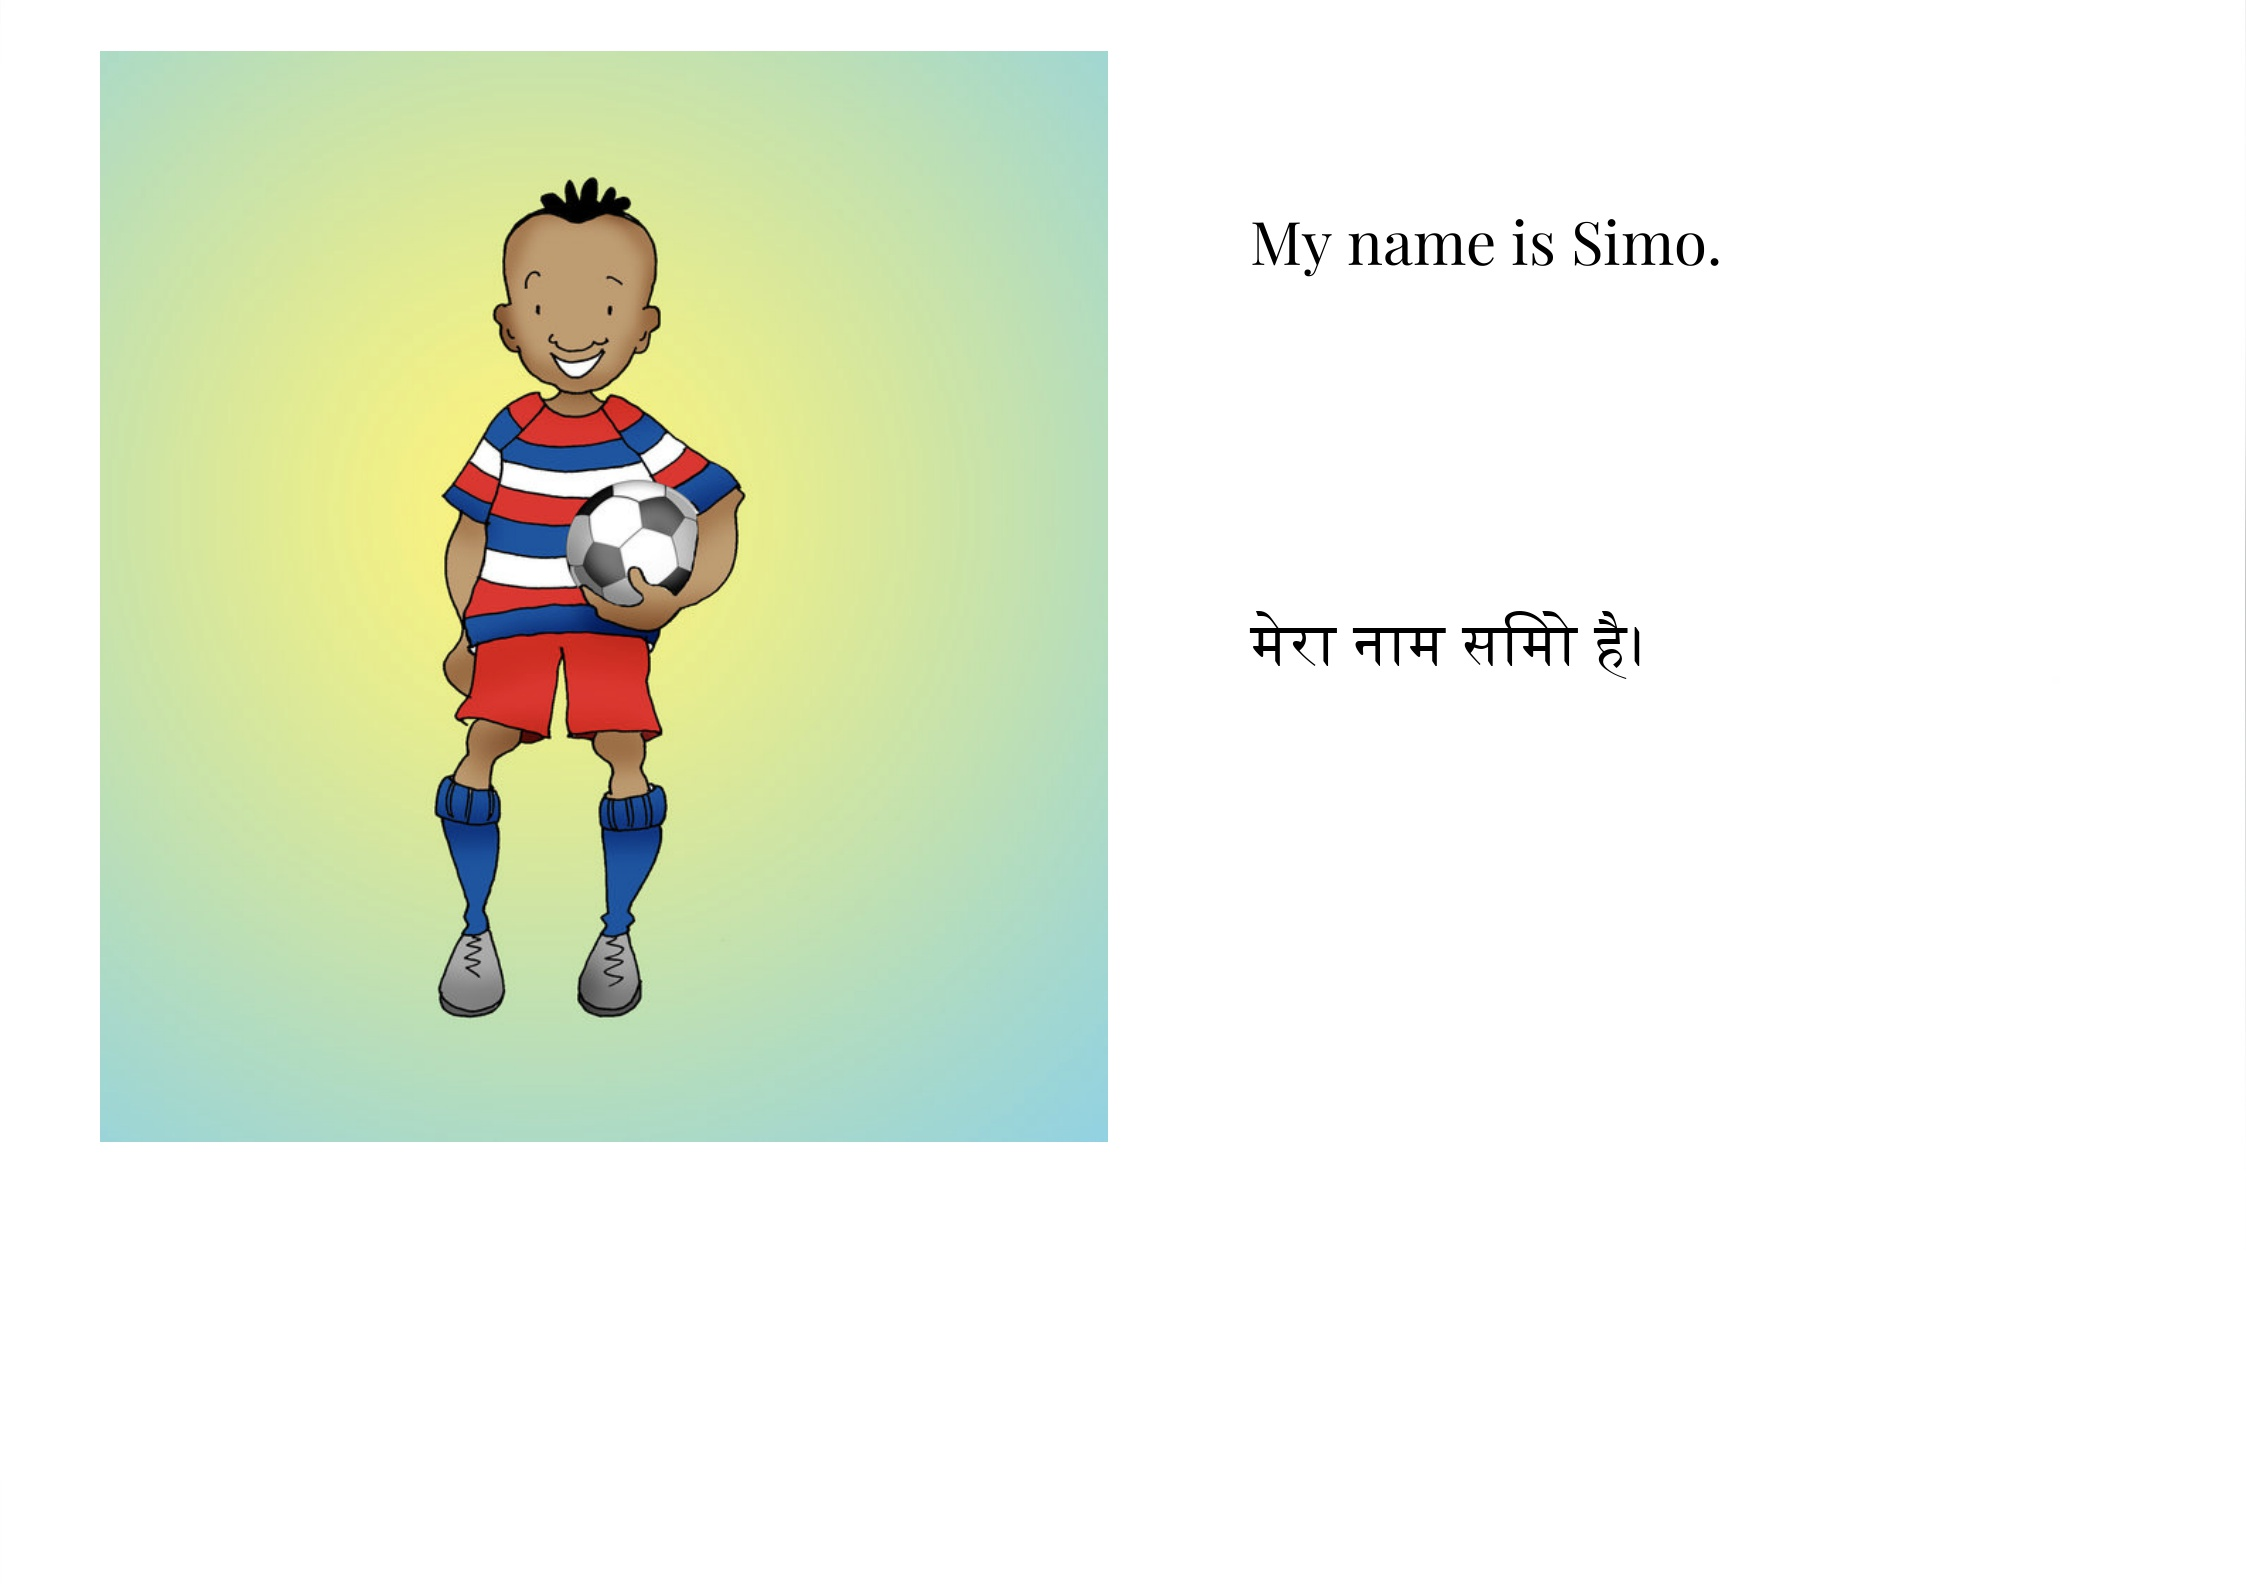
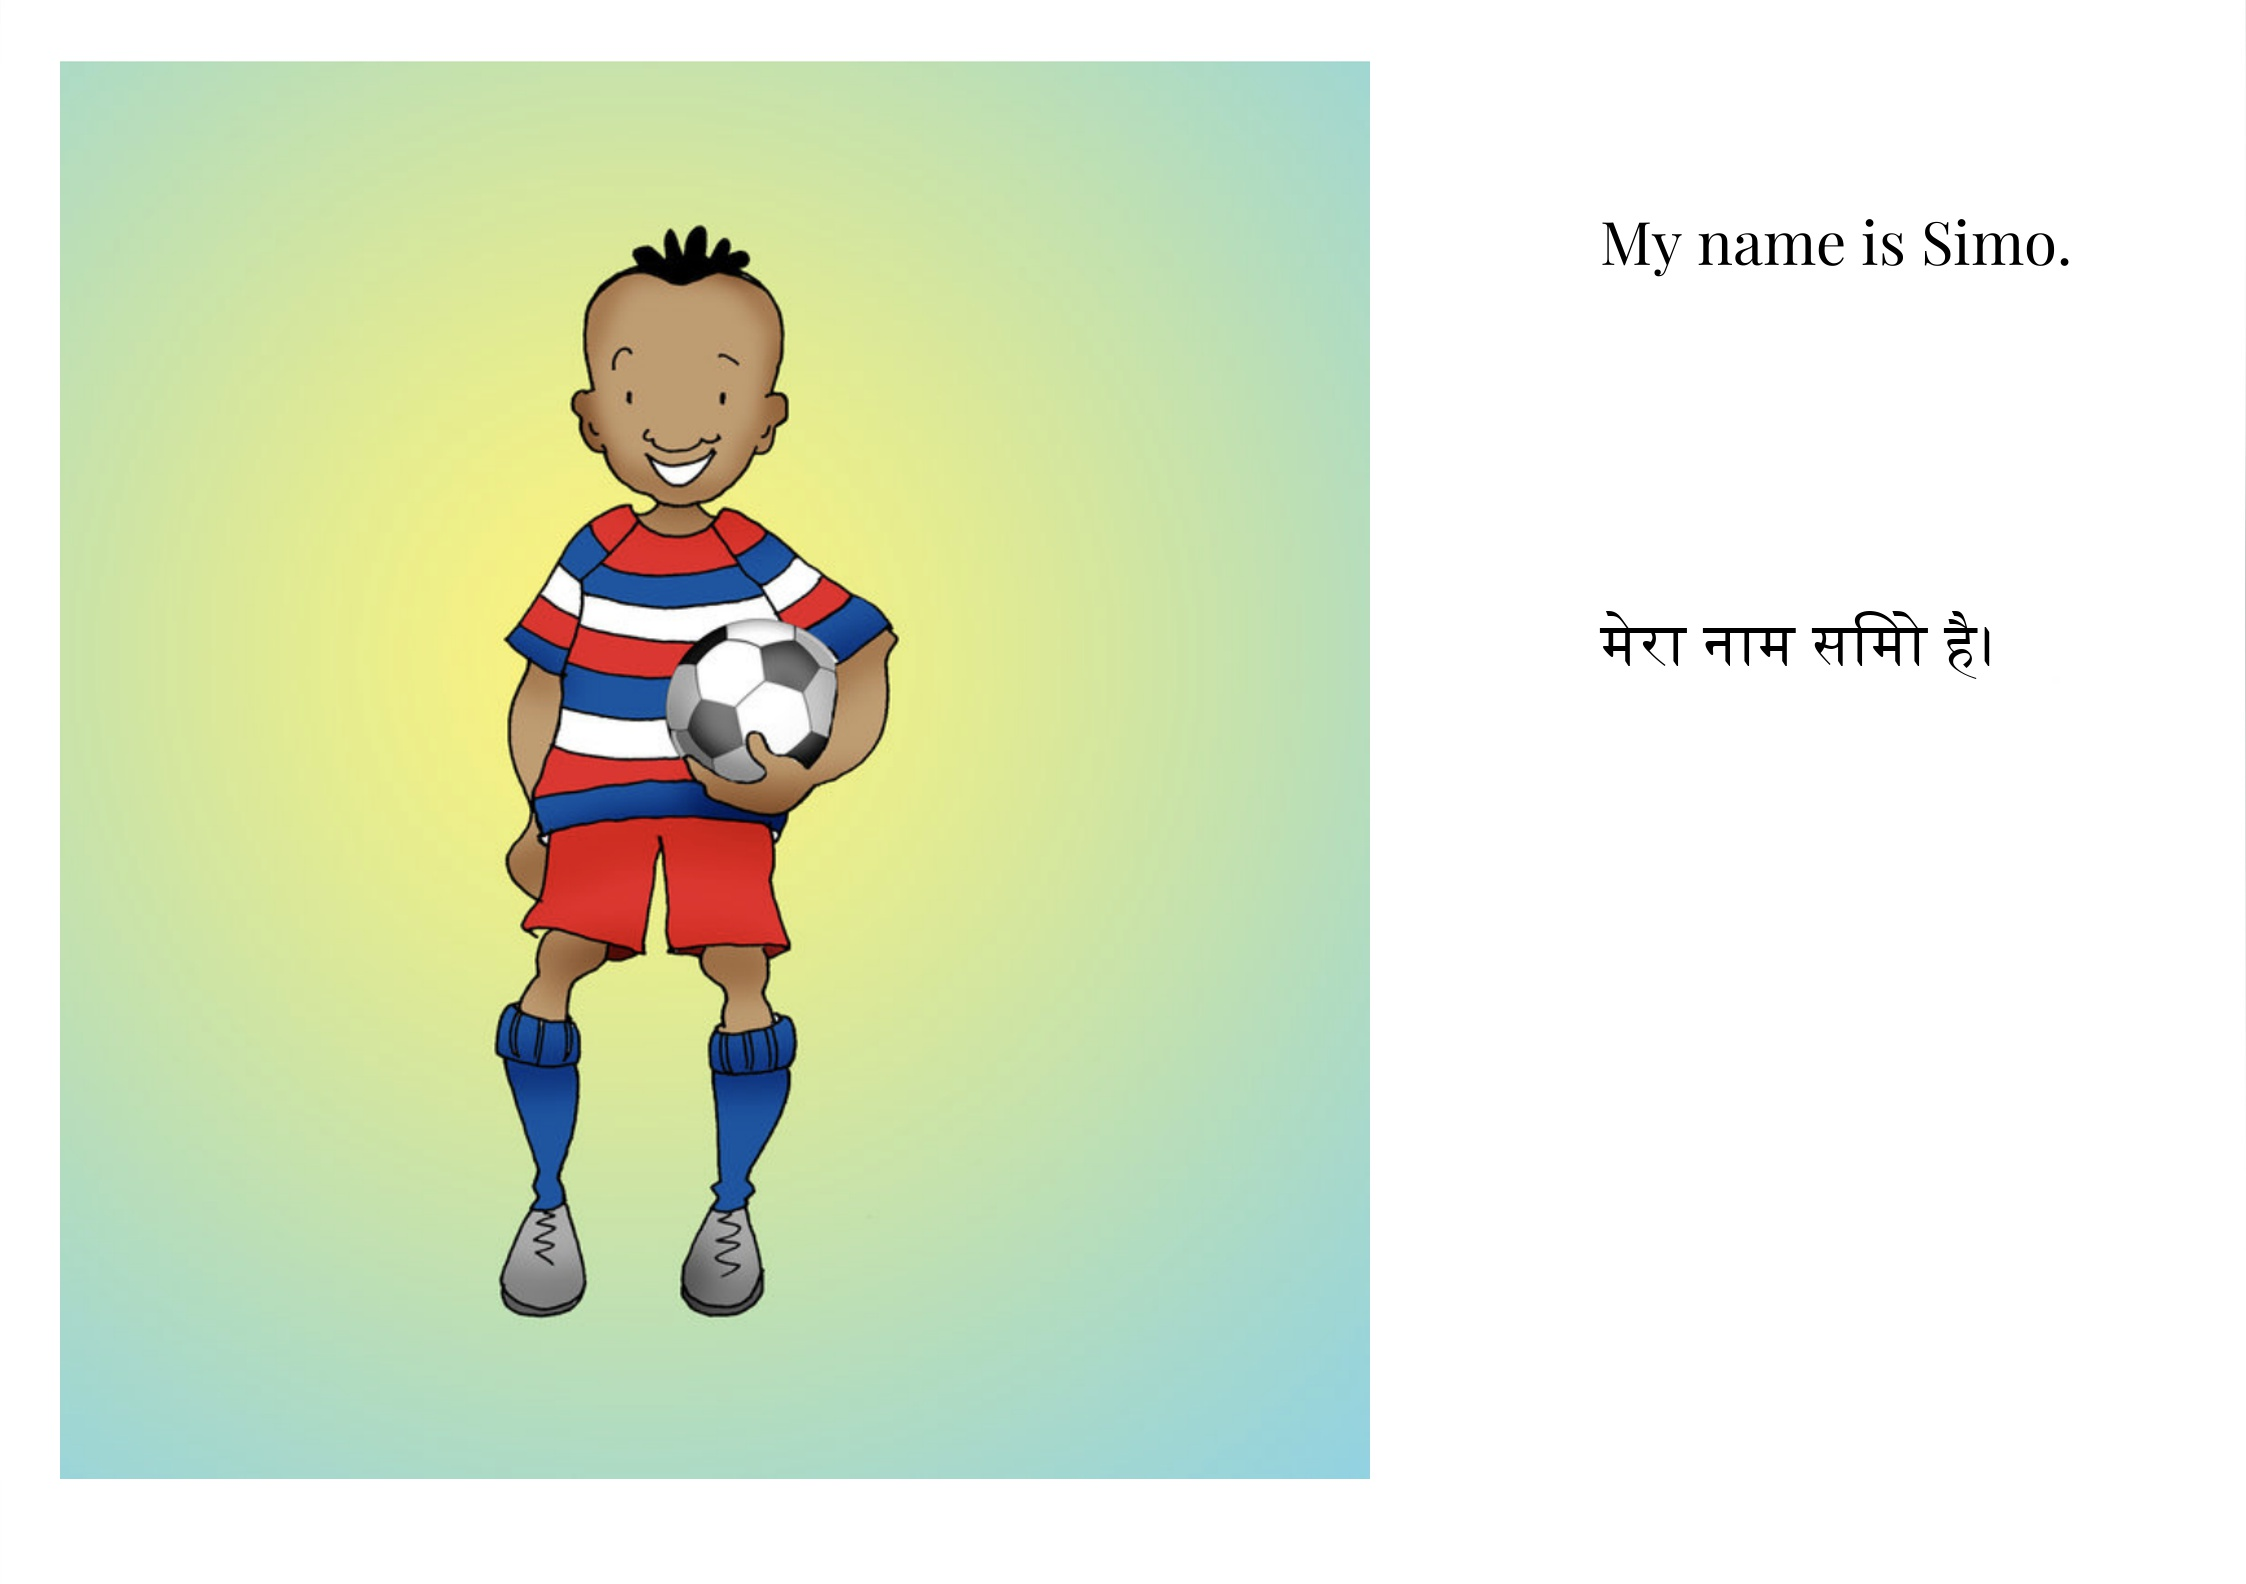
semiworking cropped image thing

diff --git a/ImageDetection.py b/ImageDetection.py
@@ -1,0 +1,60 @@
+import cv2
+import numpy as np
+def preproces_image(
+    image,
+    *,
+    kernel_size=15,
+    crop_side=50,
+    blocksize=35,
+    constant=15,
+    max_value=255,
+):
+    gray = cv2.cvtColor(image, cv2.COLOR_BGR2GRAY)
+    bit = cv2.bitwise_not(gray)
+    image_adapted = cv2.adaptiveThreshold(
+        src=bit,
+        maxValue=max_value,
+        adaptiveMethod=cv2.ADAPTIVE_THRESH_MEAN_C,
+        thresholdType=cv2.THRESH_BINARY,
+        blockSize=blocksize,
+        C=constant,
+    )
+    kernel = np.ones((kernel_size, kernel_size), np.uint8)
+    erosion = cv2.erode(image_adapted, kernel, iterations=2)
+    return erosion[crop_side:-crop_side, crop_side:-crop_side]
+
+def find_edges(image_preprocessed, *, bw_threshold=150, limits=(0.2, 0.15)):
+    mask = image_preprocessed < bw_threshold
+    edges = []
+    for axis in (1, 0):
+        count = mask.sum(axis=axis)
+        limit = limits[axis] * image_preprocessed.shape[axis]
+        index_ = np.where(count >= limit)
+        _min, _max = index_[0][0], index_[0][-1]
+        edges.append((_min, _max))
+    return edges
+
+
+def adapt_edges(edges, *, height, width):
+    (x_min, x_max), (y_min, y_max) = edges
+    x_min2 = x_min
+    x_max2 = x_max + min(250, (height - x_max) * 10 // 11)
+    # could do with less magic numbers
+    y_min2 = max(0, y_min)
+    y_max2 = y_max + min(250, (width - y_max) * 10 // 11)
+    return (x_min2, x_max2), (y_min2, y_max2)
+
+if __name__ == "__main__":
+
+    filename_in = "./Images/pageexample.png"
+    filename_out = "newexample.png"
+
+    image = cv2.imread(str(filename_in))
+    height, width = image.shape[0:2]
+    image_preprocessed = preproces_image(image)
+    edges = find_edges(image_preprocessed)
+    (x_min, x_max), (y_min, y_max) = adapt_edges(
+        edges, height=height, width=width
+    )
+    image_cropped = image[x_min:x_max, y_min:y_max]
+    cv2.imwrite(str(filename_out), image_cropped)

diff --git a/Translating.py b/Translating.py
@@ -8,7 +8,7 @@ booktext =  {
     'page1': 'My name is Simo.',
     'page2': 'I have four friends.'
 }
-booktext = ["My name is Simo.", "I have four friends."]
+# booktext = ["My name is Simo.", "I have four friends."]
 translatedbooktext = [""]
 
 url = "https://platform.neuralspace.ai/api/translation/v1/translate"
@@ -28,23 +28,9 @@ data = """
 """
 
  
-resp = requests.post(url, headers=headers, data=data)
+# resp = requests.post(url, headers=headers, data=data)
 
-response_dict = json.loads(resp.text)
-translatedbooktext[0] = response_dict["data"]["translated_text"]
-print(translatedbooktext)
-print(response_dict["data"]["translated_text"])
-
-
-path = "./Images/image1.png"
-title_font = ImageFont.truetype('PlayfairDisplay-Regular.ttf', 60)
-hindi_font = ImageFont.truetype('ArialUnicodeMS.ttf', 60)
-
-img1  = Image.open("./Images/image1.png") 
-
-background = Image.open("./Images/backgroundimagereal.jpg")
-editable_background = ImageDraw.Draw(background)
-editable_background.text((1250,200), booktext['page1'], (0, 0, 0), font=title_font)
-editable_background.text((1250,600), translatedbooktext[0], (0, 0, 0), font=hindi_font)
-background.paste(img1, (100,50))
-background.save('Images/pastedimage.jpg', quality=95)
+# response_dict = json.loads(resp.text)
+# translatedbooktext[0] = response_dict["data"]["translated_text"]
+# print(translatedbooktext)
+# print(response_dict["data"]["translated_text"])

diff --git a/ImageProcessing.py b/ImageProcessing.py
@@ -1,0 +1,31 @@
+from Translating import *
+from PIL import Image, ImageDraw, ImageFont
+
+ooktext =  {
+    'page1': 'My name is Simo.',
+    'page2': 'I have four friends.'
+}
+
+
+path = "./Images/image1.png"
+title_font = ImageFont.truetype('PlayfairDisplay-Regular.ttf', 60)
+hindi_font = ImageFont.truetype('ArialUnicodeMS.ttf', 60)
+
+img1  = Image.open("./Images/image1.png") 
+
+background = Image.open("./Images/backgroundimagereal.jpg")
+width, height = background.size
+editable_background = ImageDraw.Draw(background)
+editable_background.text((1600,200), booktext['page1'], (0, 0, 0), font=title_font)
+
+# Calling translation function #
+
+# editable_background.text((1250,600), translatedbooktext[0], (0, 0, 0), font=hindi_font)
+
+# Placeholder Text for testing #
+editable_background.text((1600,600), "मेरा नाम सिमो है।", (0, 0, 0), font=hindi_font)
+# img1.thumbnail((height,height))
+half = 1.3
+out = img1.resize( [int(half * s) for s in img1.size] )
+background.paste(out, (60,60))
+background.save('Images/pastedimage.jpg', quality=95)
